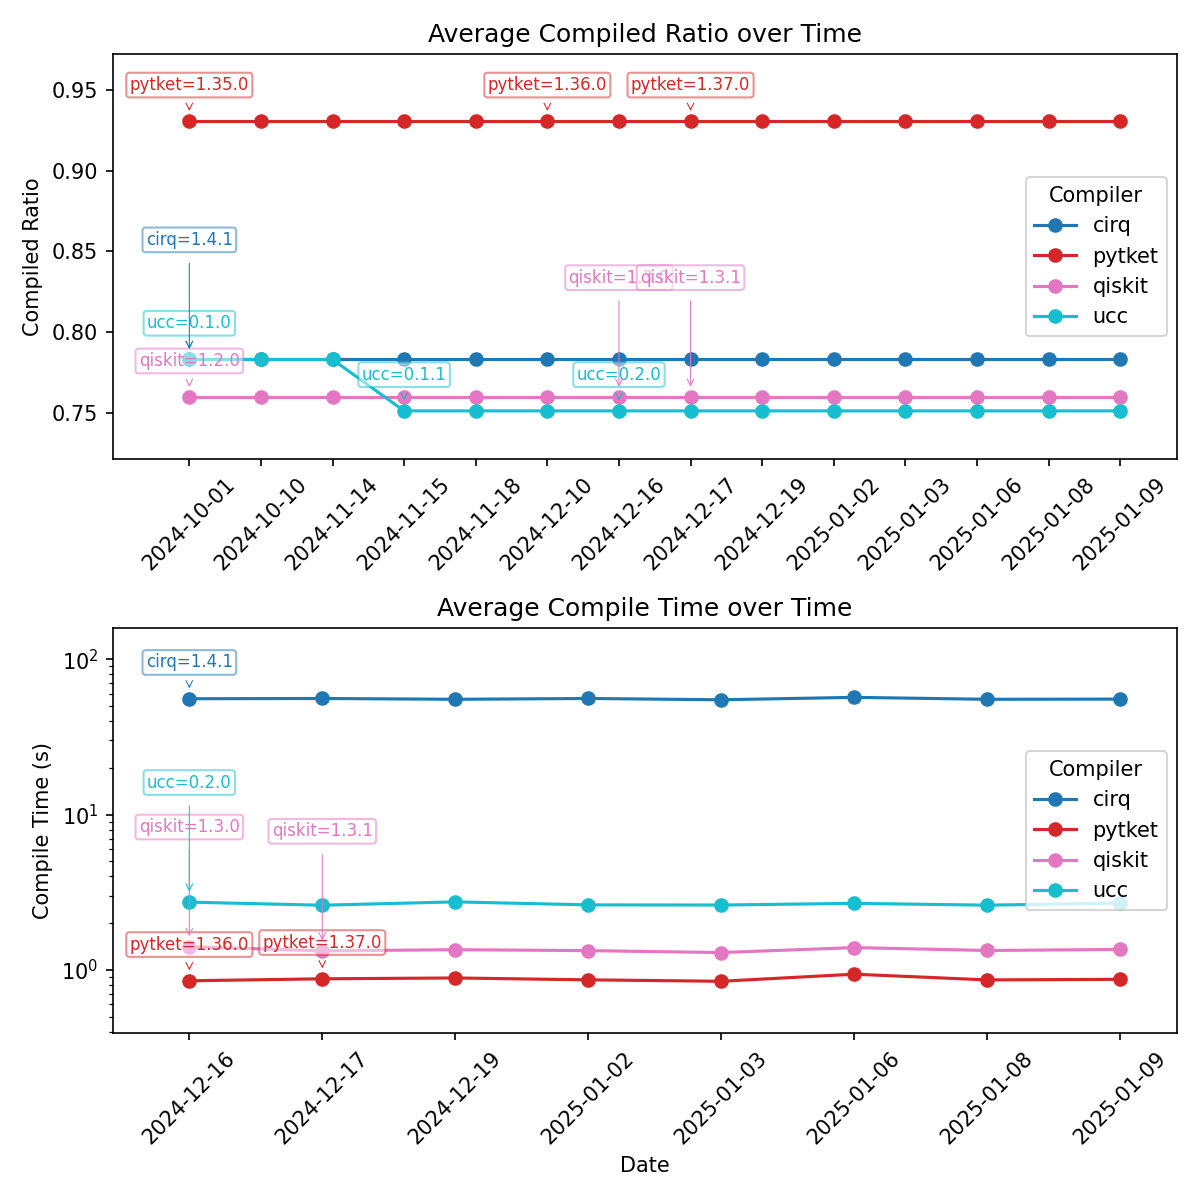
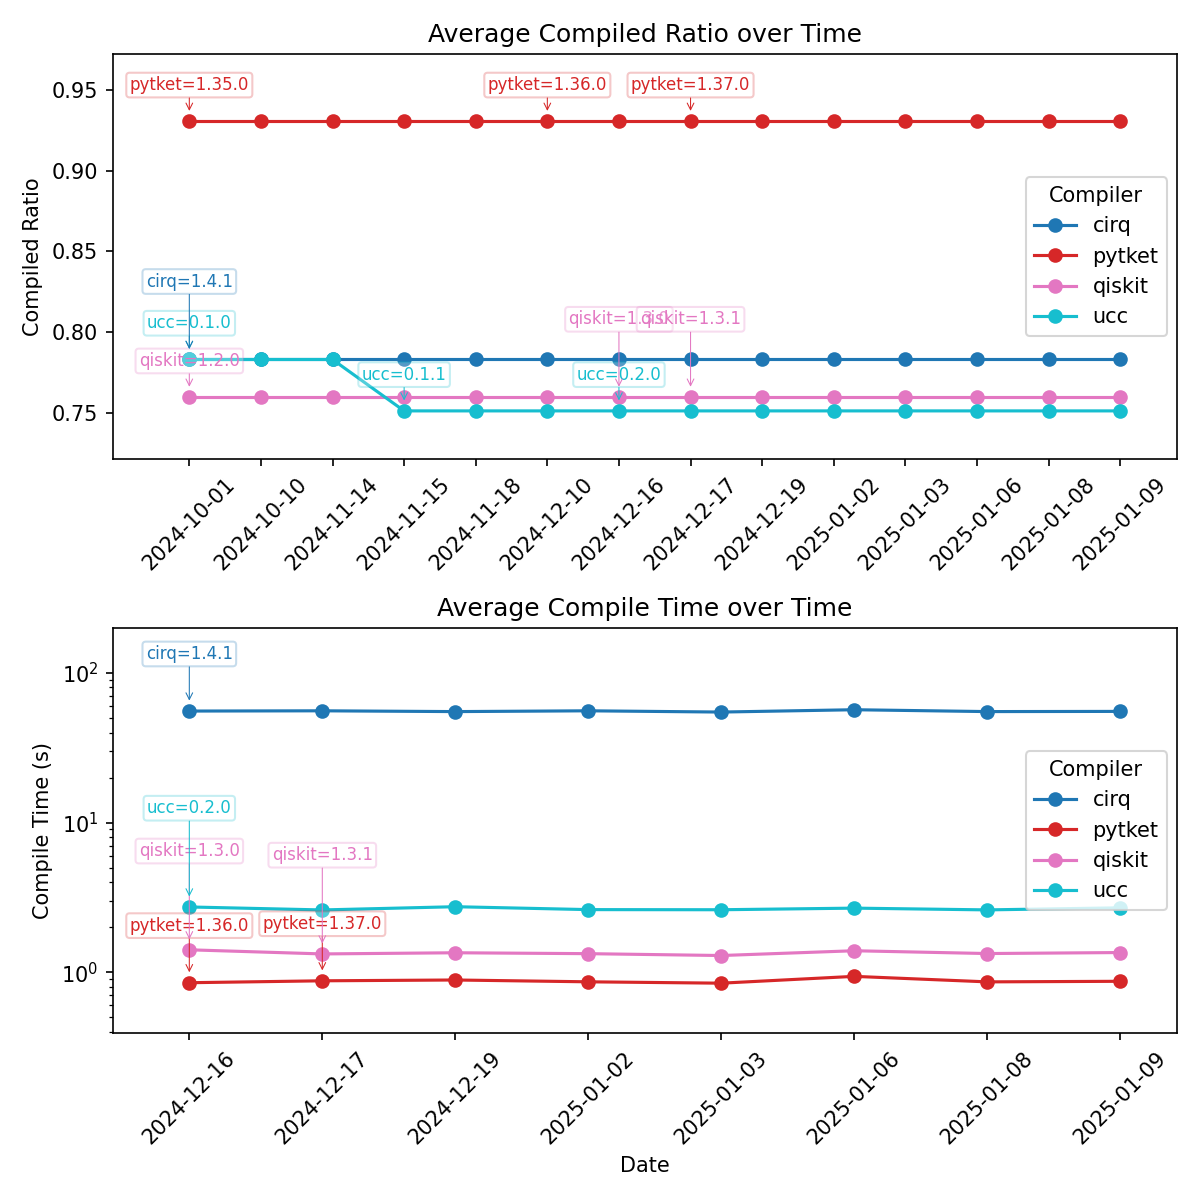
Nicest plots yet, just one overlap to fix

diff --git a/benchmarks/scripts/plot_avg_benchmarks_over_time.py b/benchmarks/scripts/plot_avg_benchmarks_over_time.py
@@ -33,13 +33,6 @@ for file in csv_files:
     dataframes.append(df)
 
 df_dates = pd.concat(dataframes, ignore_index=True)
-# df_dates["date"] = pd.to_datetime(df_dates["date"], errors='coerce').dt.date
-# Print unique compiler versions for each compiler
-print("Unique compiler versions for each compiler:", df_dates.groupby("compiler")["compiler_version"].unique(), '\n')
-
-# Print unique versions for each compiler
-for compiler in df_dates["compiler"].unique():
-    print(f"Unique versions for {compiler}: {df_dates[df_dates['compiler'] == compiler]['compiler_version'].unique()}")
 
 # Find the average compiled ratio for each compiler on each date
 avg_compiled_ratio = df_dates.groupby(["compiler", "date", "compiler_version"])["compiled_ratio"].mean().reset_index().sort_values("date")
@@ -84,7 +77,6 @@ for date in avg_compiled_ratio["date"].unique():
     # print('Date data for \n', date, date_data, '\n')
     # Now iterate over each compiler entry and annotate if it's a new version
     for _, row in date_data.iterrows():
-        print(row, '\n')
         # Get the version for this date 
         current_version = row["compiler_version"]
         compiler = row["compiler"]
@@ -105,7 +97,7 @@ for date in avg_compiled_ratio["date"].unique():
                 previous_bboxes=previous_bboxes,
                 offset=(0, 15),  # Initial offset
                 increment=2,  # Vertical adjustment step
-                max_attempts=20,
+                max_attempts=10,
             )
             plt.pause(0.1)
             # Update the last seen version for this compiler
@@ -139,14 +131,13 @@ for compiler in unique_compilers:
         color=color_map[compiler]
     )
 
+# Add annotations for version changes
 for date in avg_compile_time["date"].unique():
     date_data = avg_compile_time[avg_compile_time["date"] == date]
-    # print('Date data for \n', date, date_data, '\n')
-    # Now iterate over each compiler entry and annotate if it's a new version
     # Sort date_data in order of compiled_ratio
     date_data = date_data.sort_values("compile_time")
     for _, row in date_data.iterrows():
-        print(row, '\n')
+        # print(row, '\n')
         # Get the version for this date 
         current_version = row["compiler_version"]
         compiler = row["compiler"]
@@ -165,11 +156,11 @@ for date in avg_compile_time["date"].unique():
                 xy=xy,
                 color=color,
                 previous_bboxes=previous_bboxes,
-                offset=(0, 15),  # Initial offset
+                offset=(0, 25),  # Initial offset
                 increment=2,  # Vertical adjustment step
-                max_attempts=20,
+                max_attempts=10,
             )
-            plt.pause(0.1)
+            # plt.pause(0.1)
             # Update the last seen version for this compiler
             last_version_seen[compiler] = current_version
 

diff --git a/benchmarks/scripts/common.py b/benchmarks/scripts/common.py
@@ -229,14 +229,14 @@ def annotate_and_adjust(ax, text, xy, color, previous_bboxes, offset=(0, 15), in
             arrowstyle="->",
             color=color,
             lw=0.5,
-            shrinkA=5,  # Shrink arrow length to avoid overlap
+            shrinkA=0,  # Shrink arrow length to avoid overlap
             shrinkB=5
         ),
         bbox=dict(
             boxstyle="round,pad=0.2",
             edgecolor=color,
             facecolor="white",
-            alpha=0.5
+            alpha=0.25
         )
     )
 
